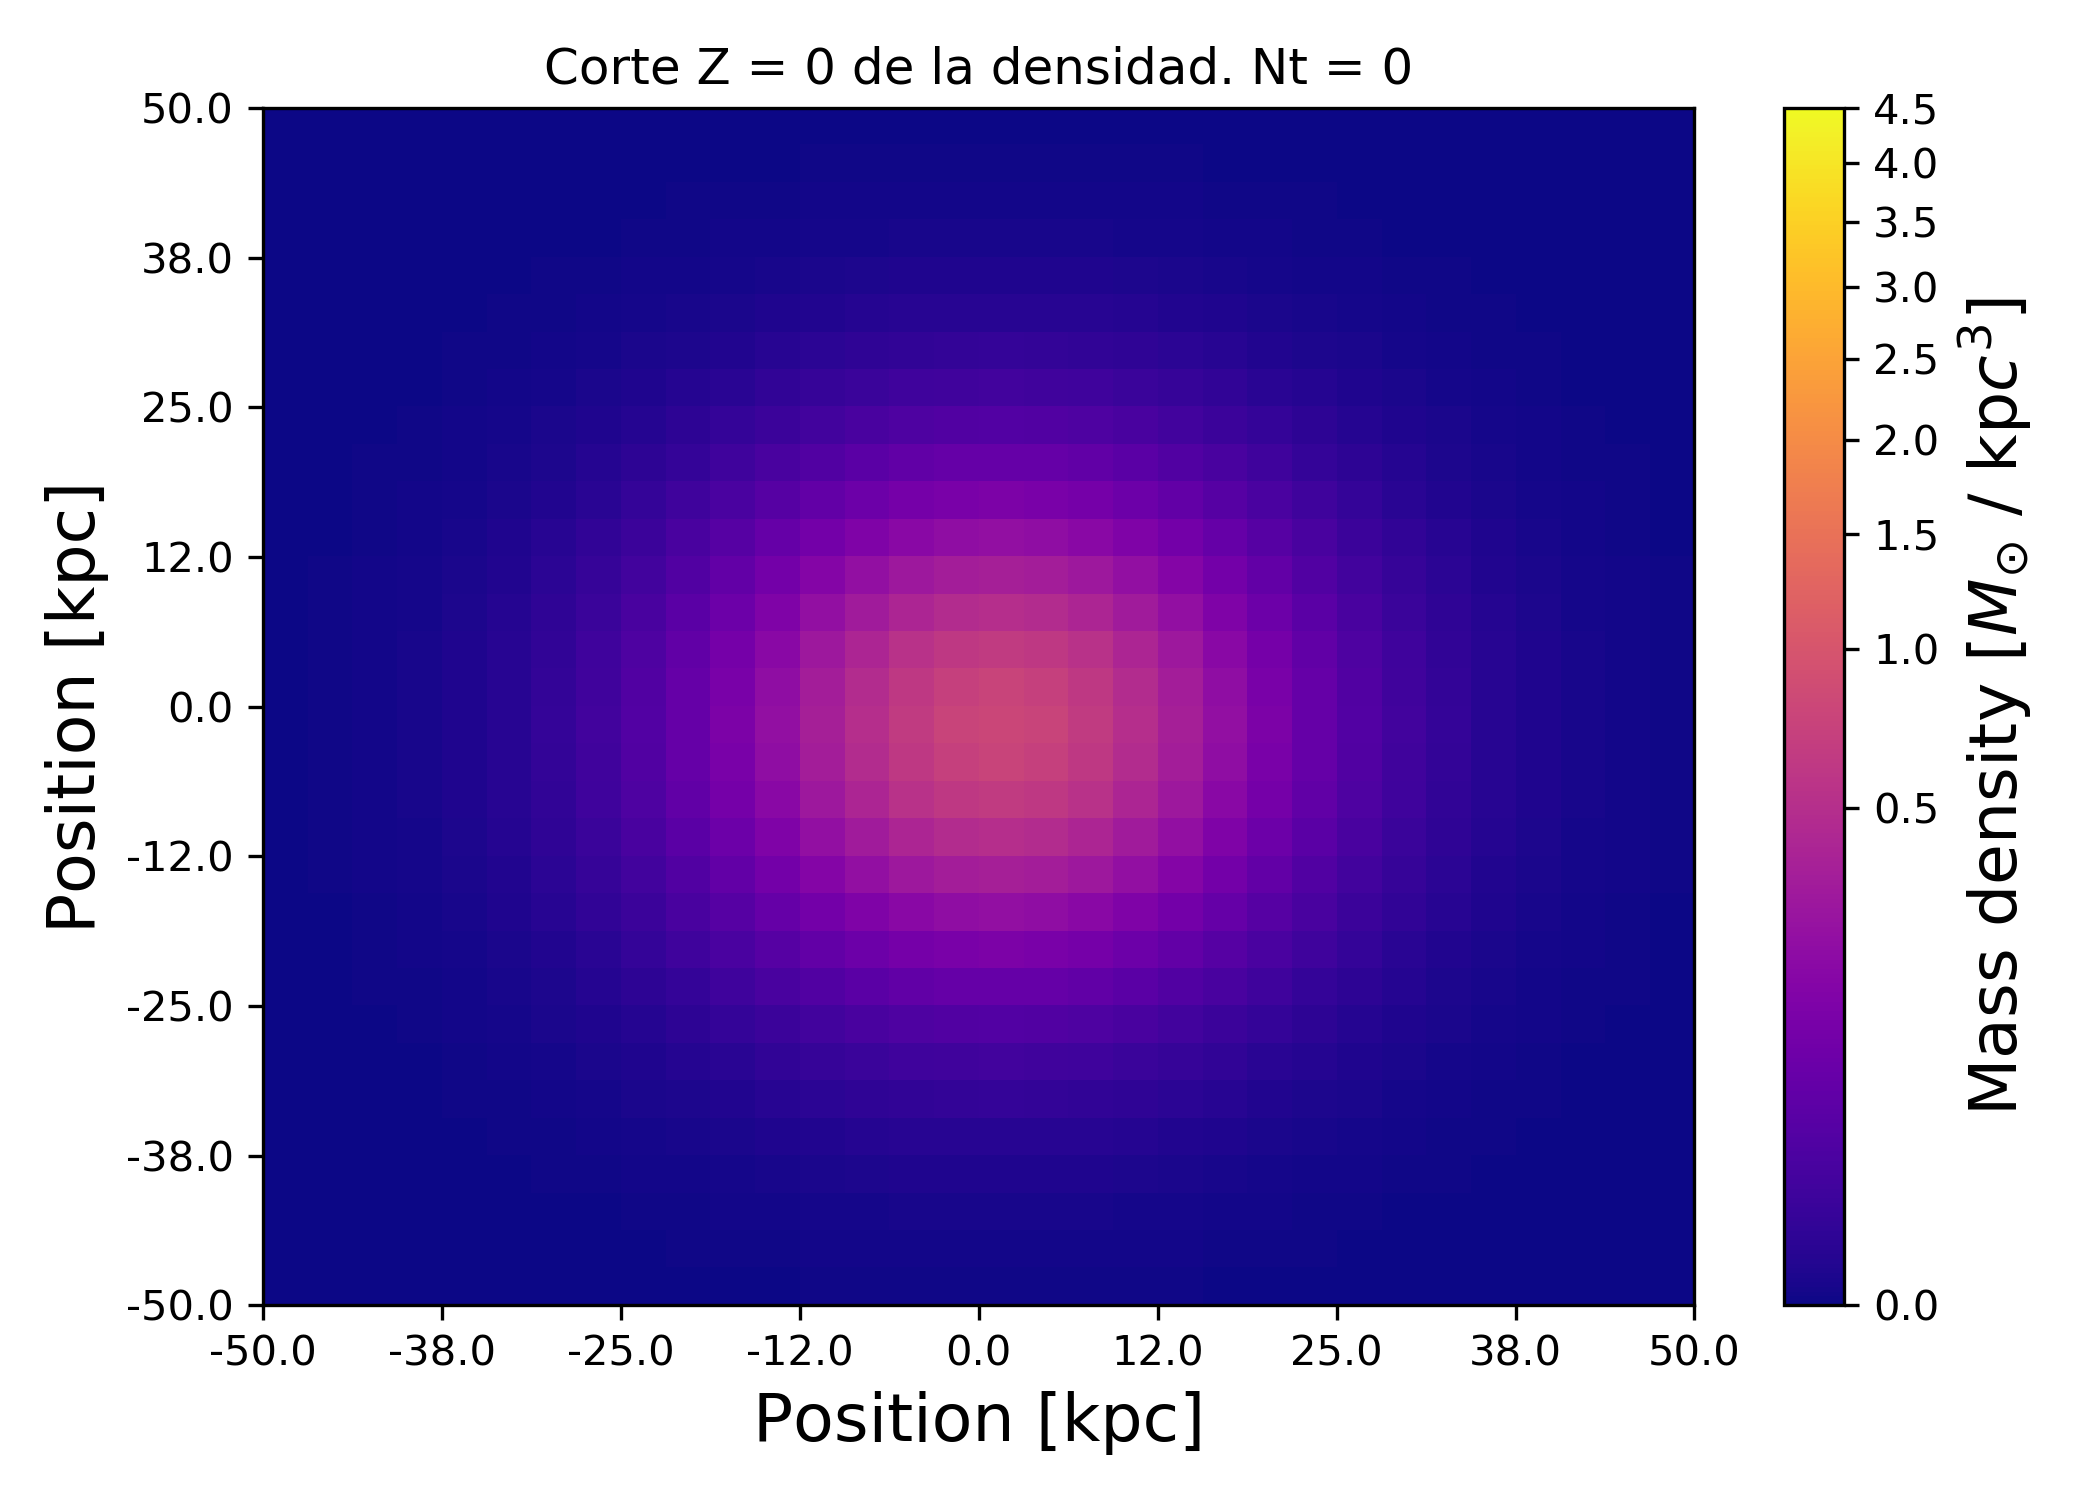
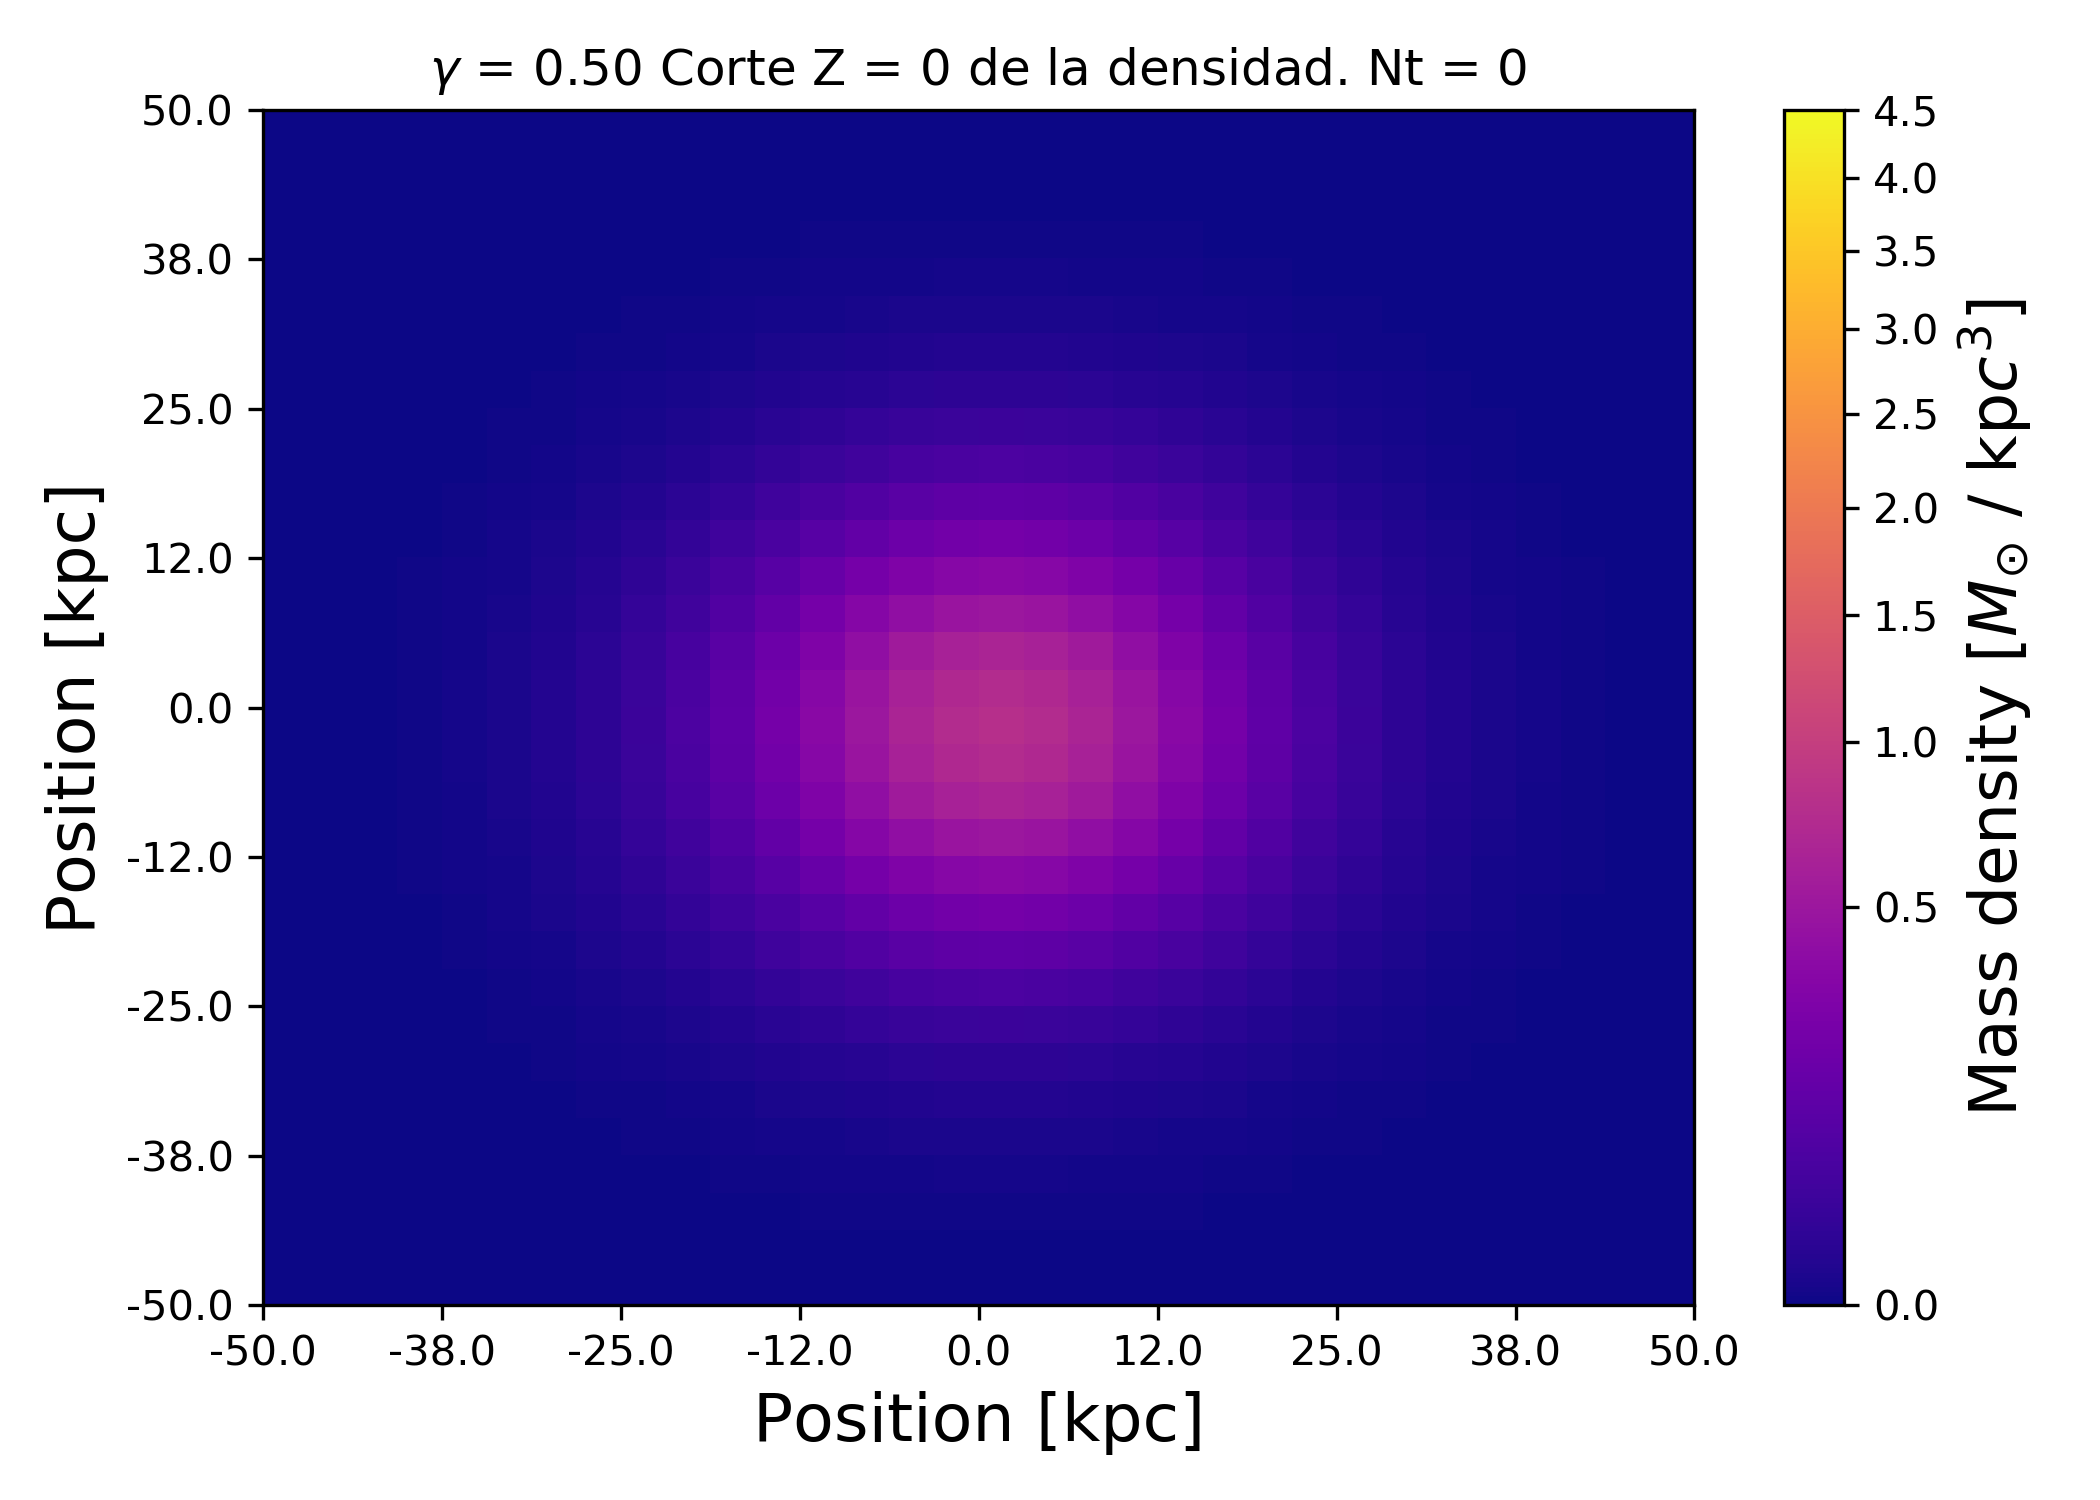
to Cluster

diff --git a/miniCluster/simPlots3D.py b/miniCluster/simPlots3D.py
@@ -24,7 +24,7 @@ Nt = int(constantes[-1])
 wMin = constantes[1]
 
 figure = plt.figure(figsize=(7,5))
-
+gamma = 0.5
 #for i in range(len(constantes)):
 #    print(i,constantes[i])
 
@@ -34,18 +34,19 @@ def darV(i):
 def fastShow(image, title="none",clim=None, clabel=None, saveN=None):
     plt.clf()
 #    plt.imshow(image,extent=[constantes[0],constantes[3],constantes[0],constantes[3]],norm=matplotlib.colors.LogNorm(vmin = clim[0], vmax = clim[1]), interpolation='nearest', aspect='auto')
-    plt.imshow(image,extent=[constantes[0],constantes[3],constantes[0],constantes[3]],norm=matplotlib.colors.PowerNorm(0.4,vmin = 0, vmax = 4.5),interpolation='nearest', aspect='auto')
+    plt.imshow(image,extent=[constantes[0],constantes[3],constantes[0],constantes[3]],norm=matplotlib.colors.PowerNorm(gamma,vmin = 0, vmax = 4.5),interpolation='nearest', aspect='auto')
     cbar = plt.colorbar()
-    if(clim != None):
+#    if(clim != None):
         #plt.clim(clim[0],clim[1])
-        print("heh")
+#        print("heh")
     if(clabel != None):
         cbar.set_label(clabel,fontsize=fsize)
     plt.yticks(plt.yticks()[0], [str(np.round(t*50)) for t in plt.yticks()[0]])
     plt.ylabel("Position [kpc]",fontsize=fsize)
     plt.xticks(plt.xticks()[0], [str(np.round(t*50)) for t in plt.xticks()[0]])
     plt.xlabel("Position [kpc]",fontsize=fsize)
-    plt.title(title)
+    #plt.title(title)
+    plt.title(r"$\gamma$ = {:.2f} ".format(gamma)+title)
     plt.savefig("./images/"+saveN+".png",dpi=dpiT)
 
 

diff --git a/simulacion3D.c b/simulacion3D.c
@@ -69,7 +69,7 @@ Simulación del espacio de fase de un fluido tridimensional de Materia Oscura co
 
 //Aspectos temporales de la ejecución.
 double dt = 0.5;
-int Nt = 100;
+int Nt = 3;
 
 //Arreglos
 double *phase;
@@ -221,7 +221,7 @@ double collision(int icolx, int icoly, int icolz,  int jcolx, int jcoly, int jco
 
 double sr = 0.2;
 double sv = 0.2;
-double ampl = 500;
+double ampl = 100;
 
 
 int main()
